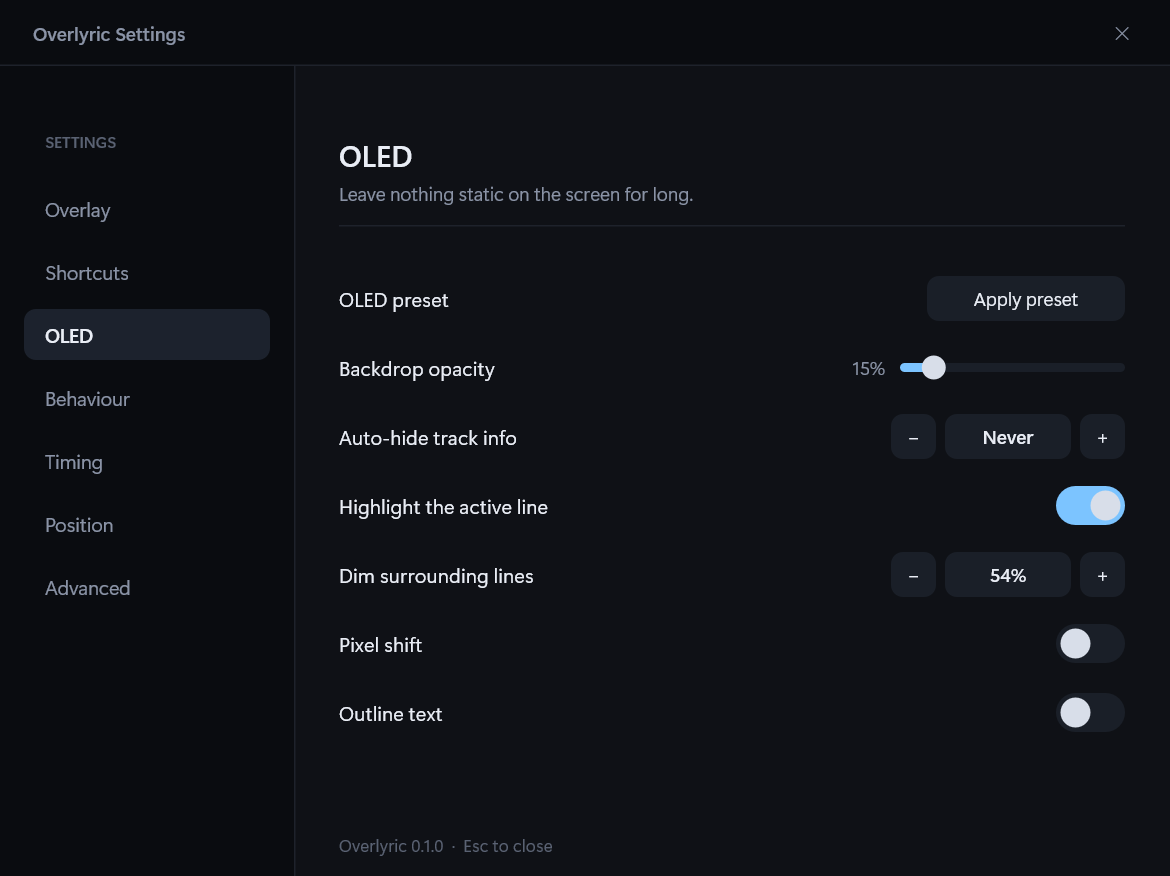
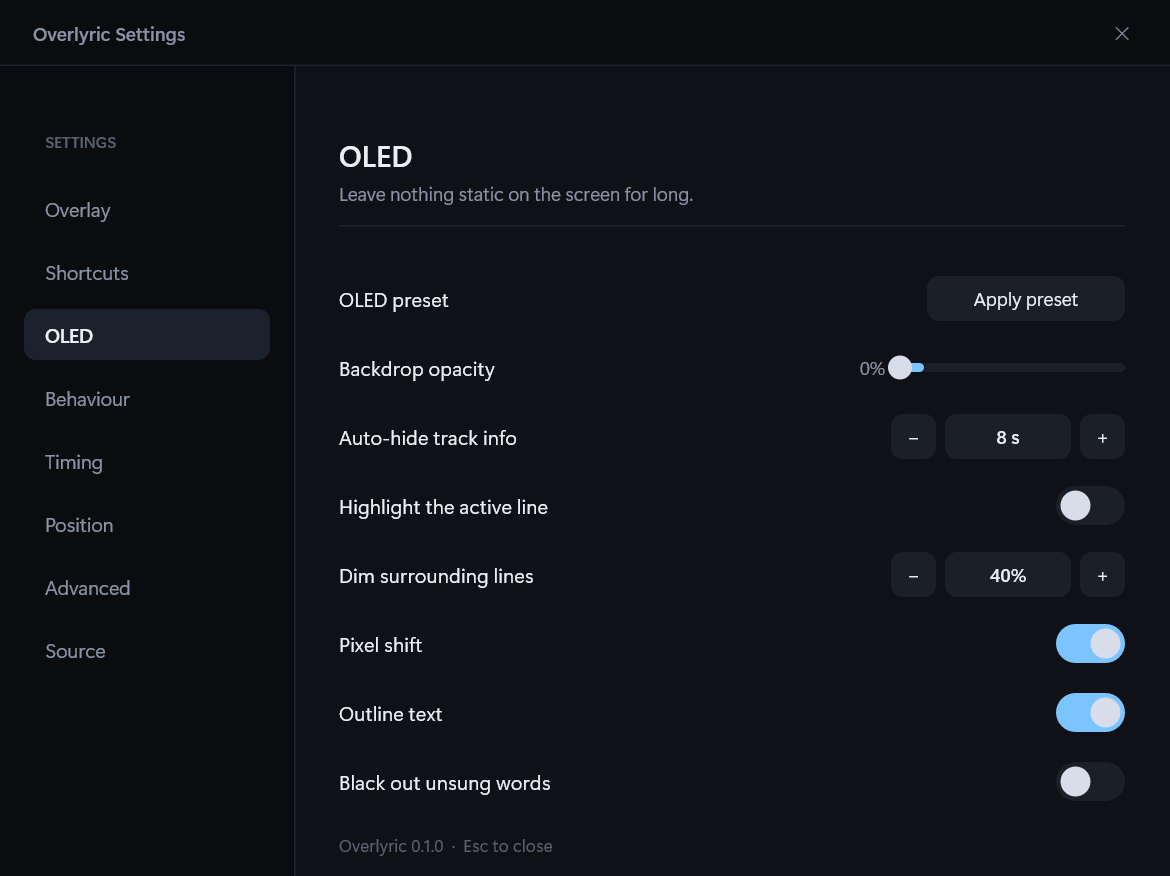
Black out the unsung half of a karaoke line
The OLED preset removes the static backdrop, progress bar, header and highlight bar, but the part of the active line waiting to be sung is still lit and standing still. KaraokeBlackout paints it pure black, so on the panel only the sweep emits light; the sung half and the dim surrounding lines are unchanged.

The preset now also turns the karaoke sweep on, because the blackout has nothing to draw without it. The bundle moved from the settings window to AppConfig so it has one definition and can be checked without a window, and ThemeTests pins every preset value plus the colour mapping.

The OLED section gains a Black out unsung words toggle, the README explains the trade-off (over a dark scene the unsung words disappear by design), and the section screenshot is refreshed.

diff --git a/probe/ThemeTests/Program.cs b/probe/ThemeTests/Program.cs
@@ -1,0 +1,93 @@
+using Overlyric.App;
+using Overlyric.Overlay;
+
+namespace Overlyric.ThemeTests;
+
+/// <summary>
+/// Checks the OLED bundle and the colours it turns into. The preset is one definition on the config,
+/// and the blackout is one colour swap, so both can be pinned without opening the overlay.
+/// </summary>
+internal static class Program
+{
+    private static int _failures;
+
+    private static int Main()
+    {
+        var defaults = new AppConfig();
+        var defaultTheme = defaults.ToTheme();
+
+        Check("a fresh config does not black out the sweep", !defaults.KaraokeBlackout);
+        Check("without the blackout, un-sung words keep the dim colour",
+            defaultTheme.KaraokeUnlitColor == defaultTheme.InactiveTextColor,
+            $"{defaultTheme.KaraokeUnlitColor:X8} / {defaultTheme.InactiveTextColor:X8}");
+
+        var blackout = new AppConfig { KaraokeBlackout = true, InactiveLineOpacity = 0.4 };
+        var blackoutTheme = blackout.ToTheme();
+
+        Check("the blackout makes un-sung words pure black",
+            blackoutTheme.KaraokeUnlitColor == 0xFF000000,
+            blackoutTheme.KaraokeUnlitColor.ToString("X8"));
+        Check("the blackout leaves the surrounding lines dim",
+            blackoutTheme.InactiveTextColor == 0x66F5F7FA,
+            blackoutTheme.InactiveTextColor.ToString("X8"));
+        Check("the blackout does not change the sung colour",
+            blackoutTheme.ActiveTextColor == 0xFFF5F7FA,
+            blackoutTheme.ActiveTextColor.ToString("X8"));
+
+        // Start from the opposite of every preset value, so each assertion below proves the preset
+        // moved it rather than found it already set.
+        var config = new AppConfig
+        {
+            BackgroundOpacity = 0.7,
+            ShowProgressBar = true,
+            HeaderAutoHideSeconds = 0,
+            ShowActiveLineHighlight = true,
+            InactiveLineOpacity = 1.0,
+            Karaoke = false,
+            KaraokeBlackout = false,
+            PixelShift = false,
+            TextOutline = false,
+            HideWhenPaused = false
+        };
+
+        config.ApplyOledPreset();
+
+        Check("the preset removes the backdrop", config.BackgroundOpacity == 0.0, config.BackgroundOpacity);
+        Check("the preset hides the progress bar", !config.ShowProgressBar);
+        Check("the preset makes the track info fade", config.HeaderAutoHideSeconds == 8, config.HeaderAutoHideSeconds);
+        Check("the preset removes the highlight bar", !config.ShowActiveLineHighlight);
+        Check("the preset dims surrounding lines to 40 %", config.InactiveLineOpacity == 0.4, config.InactiveLineOpacity);
+        Check("the preset turns the sweep on", config.Karaoke);
+        Check("the preset blacks out the un-sung half", config.KaraokeBlackout);
+        Check("the preset turns pixel shift on", config.PixelShift);
+        Check("the preset uses the outline", config.TextOutline);
+        Check("the preset hides while paused", config.HideWhenPaused);
+
+        var theme = config.ToTheme();
+        Check("the preset theme has no backdrop at all", (theme.BackgroundColor >> 24) == 0,
+            theme.BackgroundColor.ToString("X8"));
+        Check("the preset theme is pure black on un-sung words",
+            theme.KaraokeUnlitColor == 0xFF000000,
+            theme.KaraokeUnlitColor.ToString("X8"));
+        Check("the preset theme keeps the surrounding lines readable",
+            theme.InactiveTextColor == 0x66F5F7FA,
+            theme.InactiveTextColor.ToString("X8"));
+
+        Console.WriteLine();
+        Console.WriteLine(_failures == 0 ? "ALL CHECKS PASSED" : $"{_failures} CHECK(S) FAILED");
+
+        return _failures == 0 ? 0 : 1;
+    }
+
+    private static void Check(string what, bool ok, object? detail = null)
+    {
+        if (ok)
+        {
+            Console.WriteLine($"PASS | {what}");
+            return;
+        }
+
+        _failures++;
+        Console.WriteLine($"FAIL | {what}   (got: {detail})");
+    }
+}

diff --git a/src/Overlyric/App/SettingsWindow.cs b/src/Overlyric/App/SettingsWindow.cs
@@ -154,7 +154,10 @@ internal sealed class SettingsWindow : WindowBase
         /// Say so when lrclib has nothing for the track. Appended past the source id ranges so those
         /// blocks keep decoding to the same slots.
         /// </summary>
-        NotifyMissingLyrics = 74
+        NotifyMissingLyrics = 74,
+
+        /// <summary>The OLED section's pure-black sweep toggle, appended so the older ids keep their values.</summary>
+        OledBlackout = 75
     }
 
     private const float WidthDip = 780f;
@@ -910,6 +913,11 @@ internal sealed class SettingsWindow : WindowBase
                 Apply(SettingsChange.Appearance);
                 return;
 
+            case Control.OledBlackout:
+                _config.KaraokeBlackout = !_config.KaraokeBlackout;
+                Apply(SettingsChange.Appearance);
+                return;
+
             case Control.KaraokeToggle:
                 _config.Karaoke = !_config.Karaoke;
                 Apply(SettingsChange.Appearance);
@@ -936,20 +944,10 @@ internal sealed class SettingsWindow : WindowBase
         }
     }
 
-    /// <summary>
-    /// A bundle for an OLED panel: no backdrop, no progress bar, the static header fades out, no
-    /// highlight bar, dimmer surrounding lines, and the whole thing nudged around once a minute.
-    /// </summary>
     private void ApplyOledPreset()
     {
-        _config.BackgroundOpacity = 0.0;
-        _config.ShowProgressBar = false;
-        _config.HeaderAutoHideSeconds = 8;
-        _config.ShowActiveLineHighlight = false;
-        _config.InactiveLineOpacity = 0.4;
-        _config.PixelShift = true;
-        _config.TextOutline = true;
-        _config.HideWhenPaused = true;
+        // The bundle itself lives on the config, so it can be tested without a window.
+        _config.ApplyOledPreset();
 
         _config.Save();
         _changed(SettingsChange.Appearance);
@@ -1306,9 +1304,11 @@ internal sealed class SettingsWindow : WindowBase
         Row(context, 6, "Outline text");
         Toggle(context, Control.OledOutline, _config.TextOutline);
 
-        // The preset does not touch the pop-up: it is up for a few seconds at a time, which is too
-        // little for a stuck pixel, so suppressing it would cost an answer without buying anything.
-        Hint(context, 7, "The info pop-up still appears: it is transient, so it adds no burn-in risk.");
+        // The one part of a swept line that is both static and lit is the half waiting to be sung.
+        // Pure black is an unlit pixel on the panel, so the words appear only as the sweep reaches
+        // them. It does nothing while the sweep is off, which is why the preset turns the sweep on.
+        Row(context, 7, "Black out unsung words");
+        Toggle(context, Control.OledBlackout, _config.KaraokeBlackout);
     }
 
     private void DrawShortcutsSection(ID2D1DeviceContext context)
@@ -1776,6 +1776,7 @@ internal sealed class SettingsWindow : WindowBase
         Control.OledDimDown or Control.OledDimUp => 4,
         Control.OledPixelShift => 5,
         Control.OledOutline => 6,
+        Control.OledBlackout => 7,
         Control.HidePaused => 0,
         Control.HideNoLyrics => 1,
         Control.HideInstrumental => 2,

diff --git a/src/Overlyric/App/AppConfig.cs b/src/Overlyric/App/AppConfig.cs
@@ -73,6 +73,14 @@ internal sealed class AppConfig
     /// </summary>
     public bool Karaoke { get; set; } = true;
 
+    /// <summary>
+    /// Draw the not-yet-sung part of the active line in pure black instead of the dim inactive
+    /// colour. On an OLED panel black is an unlit pixel, so the sweep is the only thing that lights
+    /// up and the half of the line that is standing still emits nothing. Does nothing when
+    /// <see cref="Karaoke"/> is off: there is no unsung half to draw then.
+    /// </summary>
+    public bool KaraokeBlackout { get; set; }
+
     /// <summary>Opacity of the lines around the active one, 0.05 - 1.0.</summary>
     public double InactiveLineOpacity { get; set; } = 0.54;
 
@@ -210,19 +218,48 @@ internal sealed class AppConfig
         return this;
     }
 
-    public OverlayTheme ToTheme() => new()
+    /// <summary>
+    /// The OLED bundle in one place: no backdrop, no progress bar, the static header fades out, no
+    /// highlight bar, dimmer surrounding lines, the unsung half of the current line unlit, pixel
+    /// shift on, outline text on, and hide when paused. The sweep is included because the blackout
+    /// has nothing to draw without it.
+    /// </summary>
+    public void ApplyOledPreset()
     {
-        FontFamily = FontFamily,
-        ActiveFontSize = ActiveFontSize,
-        InactiveFontSize = InactiveFontSize,
-        MultiLineCount = MultiLineCount,
-        BackgroundColor = ScaleAlpha(0xB4101014, BackgroundOpacity),
+        BackgroundOpacity = 0.0;
+        ShowProgressBar = false;
+        HeaderAutoHideSeconds = 8;
+        ShowActiveLineHighlight = false;
+        InactiveLineOpacity = 0.4;
+        Karaoke = true;
+        KaraokeBlackout = true;
+        PixelShift = true;
+        TextOutline = true;
+        HideWhenPaused = true;
+    }
+
+    public OverlayTheme ToTheme()
+    {
         // The surrounding lines keep their hue and lose their alpha, so "dim" means dimmer rather
         // than a different colour.
-        InactiveTextColor = ScaleAlpha(0xFFF5F7FA, InactiveLineOpacity),
-        ShowActiveLineHighlight = ShowActiveLineHighlight,
-        TextOutline = TextOutline
-    };
+        var inactive = ScaleAlpha(0xFFF5F7FA, InactiveLineOpacity);
+
+        return new OverlayTheme
+        {
+            FontFamily = FontFamily,
+            ActiveFontSize = ActiveFontSize,
+            InactiveFontSize = InactiveFontSize,
+            MultiLineCount = MultiLineCount,
+            BackgroundColor = ScaleAlpha(0xB4101014, BackgroundOpacity),
+            InactiveTextColor = inactive,
+            // The unsung half of the swept line is normally as dim as the lines around it. The
+            // OLED preset makes it pure black instead, so it is an unlit pixel on the panel rather
+            // than a second, static piece of grey text waiting to be sung.
+            KaraokeUnlitColor = KaraokeBlackout ? 0xFF000000 : inactive,
+            ShowActiveLineHighlight = ShowActiveLineHighlight,
+            TextOutline = TextOutline
+        };
+    }
 
     private static uint ScaleAlpha(uint argb, double factor)
     {

diff --git a/src/Overlyric/Overlay/LyricsRenderer.cs b/src/Overlyric/Overlay/LyricsRenderer.cs
@@ -463,7 +463,9 @@ internal sealed class LyricsRenderer : IDisposable
     /// <summary>
     /// Draws one line, and when the sweep is on, paints the sung part over the unsung one through a
     /// clip. The clip edge is measured with DirectWrite rather than estimated from a width, so
-    /// kerning, proportional fonts and CJK all land on the right character.
+    /// kerning, proportional fonts and CJK all land on the right character. The unsung half uses
+    /// <see cref="OverlayTheme.KaraokeUnlitColor"/>, which the OLED preset turns pure black so the
+    /// words light up only as they are reached.
     /// </summary>
     private void DrawLine(
         ID2D1DeviceContext context,
@@ -478,7 +480,7 @@ internal sealed class LyricsRenderer : IDisposable
         }
 
         DrawShadows(context, layout, origin);
-        context.DrawTextLayout(origin, layout, GetBrush(context, _theme.InactiveTextColor));
+        context.DrawTextLayout(origin, layout, GetBrush(context, _theme.KaraokeUnlitColor));
 
         if (sungChars == 0)
         {

diff --git a/src/Overlyric/Overlay/OverlayTheme.cs b/src/Overlyric/Overlay/OverlayTheme.cs
@@ -24,6 +24,14 @@ public sealed class OverlayTheme
     public uint BackgroundColor { get; init; } = 0xB4101014;
     public uint ActiveTextColor { get; init; } = 0xFFF5F7FA;
     public uint InactiveTextColor { get; init; } = 0x8AF5F7FA;
+
+    /// <summary>
+    /// Colour of the part of the active line the sweep has not reached yet. Normally the same dim
+    /// colour as the surrounding lines; the OLED preset turns it pure black, which on the panel is
+    /// an unlit pixel, so only the sung part of the line emits light.
+    /// </summary>
+    public uint KaraokeUnlitColor { get; init; } = 0x8AF5F7FA;
+
     public uint HeaderTextColor { get; init; } = 0x99F5F7FA;
     public uint ShadowColor { get; init; } = 0xC0000000;
     public uint ProgressColor { get; init; } = 0xCC7CC4FF;

diff --git a/src/Overlyric/Overlay/OverlayWindow.cs b/src/Overlyric/Overlay/OverlayWindow.cs
@@ -4,13 +4,6 @@ using static Overlyric.Interop.NativeMethods;
 
 namespace Overlyric.Overlay;
 
-public enum OverlayAnchor
-{
-    BottomCenter = 0,
-    TopCenter = 1,
-    Center = 2
-}
-
 /// <summary>
 /// The lyric overlay window.
 /// <para>

diff --git a/src/Overlyric/Overlay/OverlayAnchor.cs b/src/Overlyric/Overlay/OverlayAnchor.cs
@@ -1,0 +1,9 @@
+namespace Overlyric.Overlay;
+
+/// <summary>Which edge of the monitor the overlay hangs from.</summary>
+public enum OverlayAnchor
+{
+    BottomCenter = 0,
+    TopCenter = 1,
+    Center = 2
+}

diff --git a/README.md b/README.md
@@ -460,9 +460,10 @@ is identical for the whole song, and the surrounding lines sit in the same place
 ![The OLED section](docs/settings-oled.png)
 
 **Apply preset** sets the whole bundle in one click: backdrop to zero, progress bar off, track info
-gone after eight seconds, no highlight bar, surrounding lines dimmed to 40 %, pixel shift on, outline
-text on, and hide when paused. Every one of those is also a separate control, so the preset is a
-starting point rather than a mode.
+gone after eight seconds, no highlight bar, surrounding lines dimmed to 40 %, the unsung half of the
+current line blacked out, pixel shift on, outline text on, and hide when paused. It also turns the
+karaoke sweep on, because the blackout has nothing to draw without it. Every one of those is also a
+separate control, so the preset is a starting point rather than a mode.
 
 | Lever | What it does |
 | --- | --- |
@@ -472,12 +473,22 @@ starting point rather than a mode.
 | **Dim surrounding lines** | Opacity of the lines around the active one |
 | **Pixel shift** | Nudges everything 3 px around a four-step cycle, one step per minute of playback |
 | **Outline text** | A hard one-pixel outline instead of the soft shadow |
+| **Black out unsung words** | The half of the active line the sweep has not reached is drawn in pure black, so only the sung part is lit |
 
-Two of these interact, and are worth knowing about. A transparent backdrop is only legible over bright
+Three of these interact, and are worth knowing about. A transparent backdrop is only legible over bright
 video if the text has an edge, which is what **Outline text** is for — the soft shadow alone is not
 enough once the backdrop is gone. And **Pixel shift** moves the *drawing*, not the window: placement,
 dragging and hit testing are untouched, so nothing has to be re-measured and no position is written to
 the config.
+
+The third is **Black out unsung words**, which only shows while the karaoke sweep is running: it
+blackens the part of the active line the sweep has not reached. On a transparent backdrop those
+words are black shapes rather than lit ones, so over a dark scene they disappear entirely and the
+line lights up as it is sung. That is deliberate: without the blackout those words are the one part
+of a swept line that is both standing still and emitting light.
+
+The preset leaves the info pop-up alone. It is up for a few seconds at a time, which is too little
+for a stuck pixel, so suppressing it would cost an answer without buying anything.
 
 ### Karaoke
 
@@ -504,6 +515,13 @@ all of that off and returns the overlay to the cheaper behaviour.
 
 Word timings are rare in practice: lrclib does not align audio, it only publishes word timings that
 someone already submitted. The interpolated path is the common one.
+
+On an OLED panel the unsung half of a line is also the part that stands still and stays lit.
+**Black out unsung words** in **OLED** — part of the preset — paints it pure black instead of the dim
+inactive colour, so the line lights up word by word and the panel stays off ahead of the voice. With
+the sweep off there is no unsung half to draw, so the setting does nothing; that is why the preset
+also turns the sweep on. The surrounding lines are unaffected: they keep the dim colour, because
+reading ahead is the reason they are there.
 
 Scroll the wheel over the overlay while it is unlocked to change the backdrop opacity. Drag it while
 unlocked to reposition: the placement is stored as an offset **from the anchored edge** — a margin
@@ -555,6 +573,7 @@ in `Locked`, so an overlay left unlocked on purpose is still unlocked next time.
 | `PixelShift` | Nudge the drawing a few pixels once a minute, against burn-in |
 | `TextOutline` | Hard outline instead of a soft shadow, for a transparent backdrop |
 | `Karaoke` | Sweep the active line as it is sung (on by default) |
+| `KaraokeBlackout` | Draw the not-yet-sung part of the active line in pure black instead of the dim colour |
 | `HideWhenPaused` | Hide while playback is paused |
 | `HideWhenNoLyrics` | Hide when lrclib has no lyrics for the track |
 | `HideWhenInstrumental` | Hide when the track is instrumental |
@@ -667,6 +686,7 @@ because they are the quickest way to re-check a platform assumption.
 | `KaraokeTests` | 22 checks over the sweep (monotonic, punctuation not sung ahead of the words, word timings honoured, mismatched timings falling back to the line span) and the lyricsfile reader (line ends, words, colons inside text, garbage refused without throwing) |
 | `ClockTests` | 19 checks over the playback clock: attaching mid-song, frozen vs live timelines, pause/resume, seeks, sentinel stamps |
 | `SourcePreferenceTests` | 46 checks over the source selector: pin beating the list and Windows, list order respected, a listed player that is not running skipped, duplicate app ids resolved to the one actually playing, and a hand-edited list cleaned and capped without throwing |
+| `ThemeTests` | 18 checks over the OLED preset and the colours it produces: every preset value moved off its opposite, the unsung half turning pure black, the surrounding lines staying dim, and the transparent backdrop staying absent |
 
 Helper scripts: `probe\screenshot.py` (capture the screen) and `probe\crop.py` (crop and upscale a
 region for close inspection). Together they give a way to confirm visually that the overlay is on
@@ -708,6 +728,7 @@ src\Overlyric\
     LyricsService.cs         pinned -> cache -> exact -> ranked search
   Overlay\
     OverlayWindow.cs         topmost click-through Win32 window
+    OverlayAnchor.cs         which monitor edge the overlay hangs from
     ShortcutToastWindow.cs   click-through window that confirms a global shortcut
     CompositionHost.cs       D3D11 + DirectComposition + D2D device stack
     LyricsRenderer.cs        Direct2D/DirectWrite drawing
